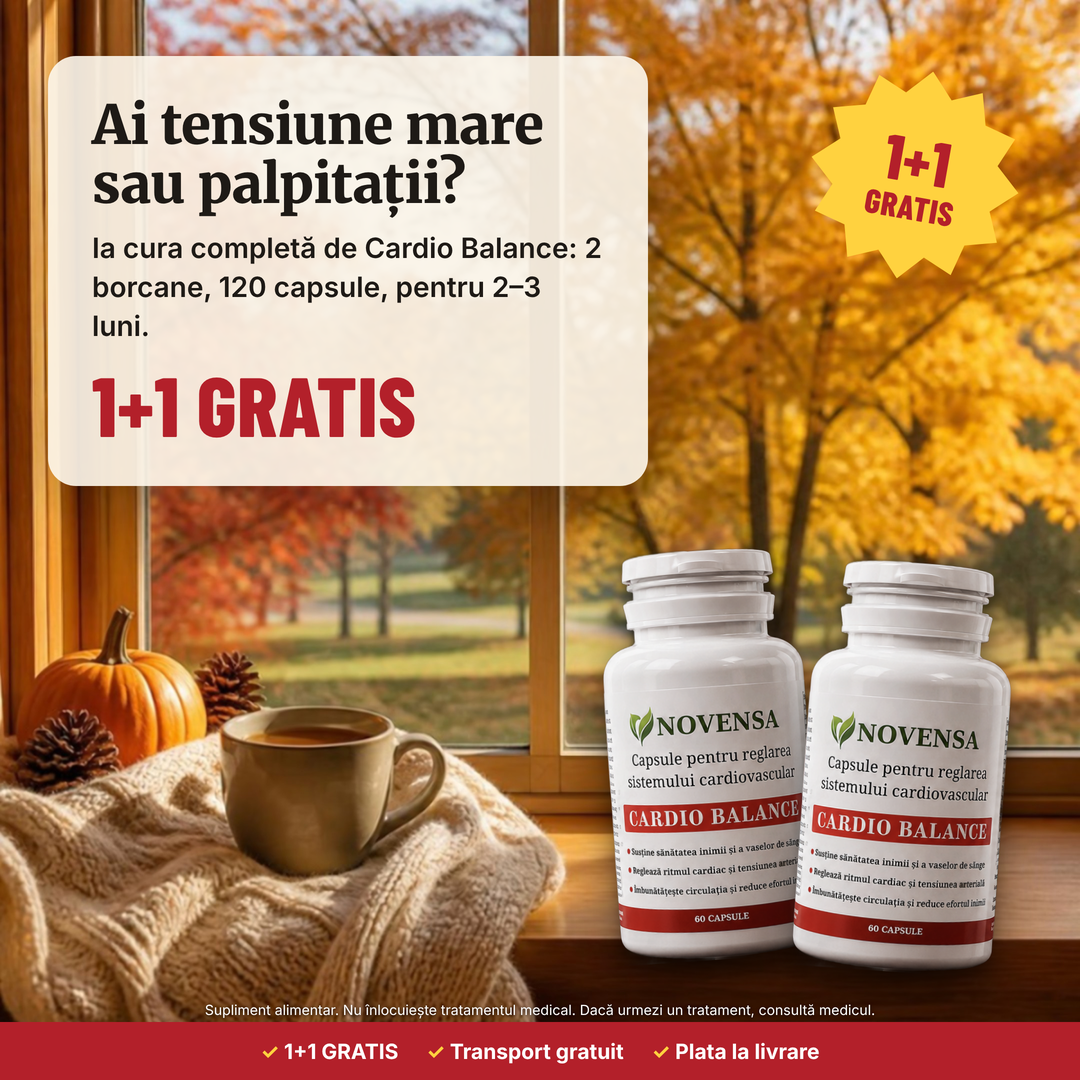
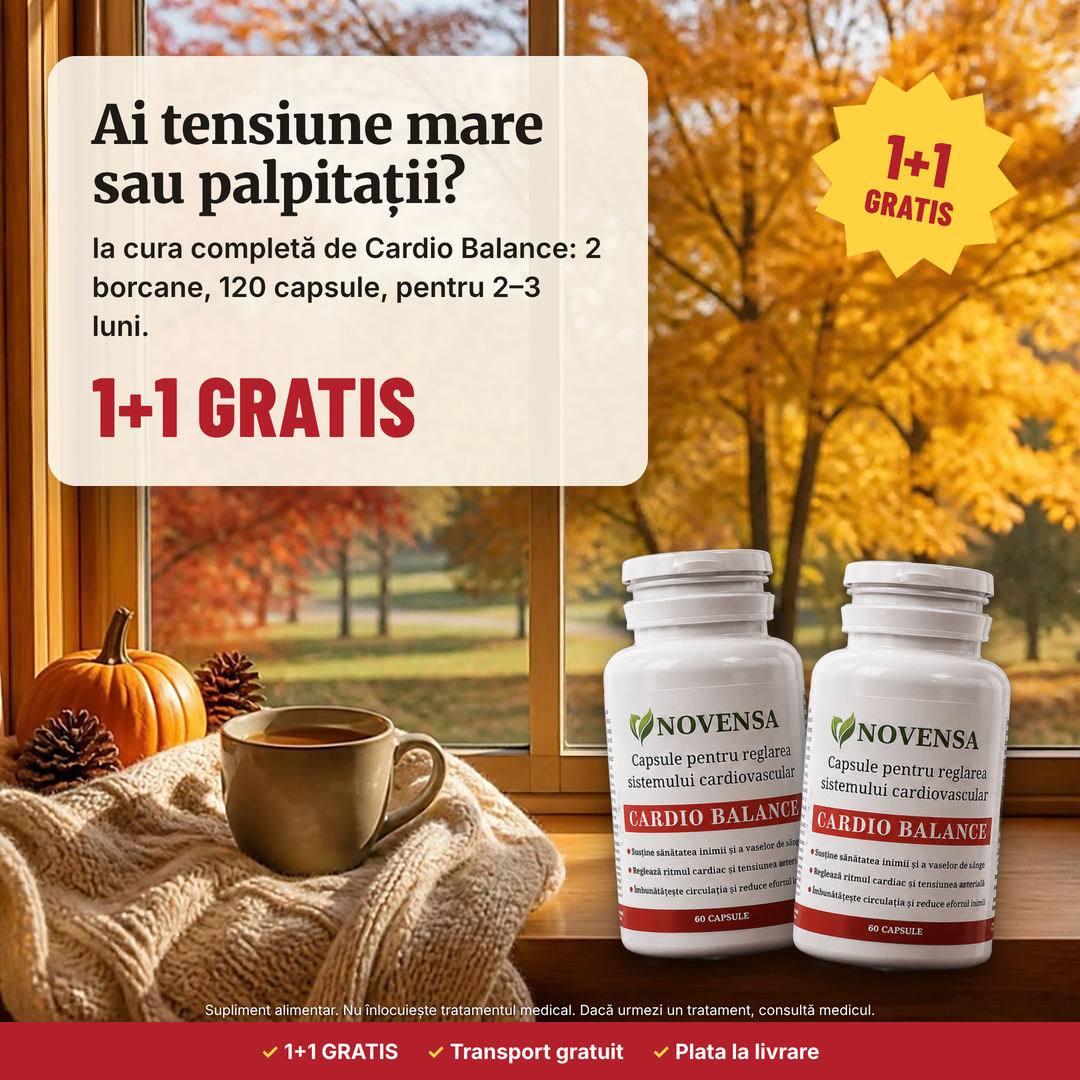
Cardio Balance offer ads: sharpened backgrounds and bottle
Claude-Session: https://claude.ai/code/session_01QRfMsfScsJWesCLQcb2b8g

diff --git a/brand/cardio/ads-oferta.js b/brand/cardio/ads-oferta.js
@@ -36,13 +36,13 @@ body{font-family:Inter,sans-serif;position:relative;color:${C.ink}}
 .disc{position:absolute;left:0;right:0;bottom:62px;text-align:center;font:400 14px Inter}
 .logo{height:38px}
 `;
-const PROD = '../cardio-cutout-hd.png', LOGO = '../../logo-novensa.png';
+const PROD = '../cardio-cutout-hd-s.png', LOGO = '../../logo-novensa.png';
 const bottle = (h, x, y, rot = 0) => {
   const w = h * 0.509;
   return `<div class="shadow" style="left:${x - w * 0.1}px;top:${y + h - 26}px;width:${w * 1.2}px;height:52px"></div><img class="prod" src="${PROD}" style="height:${h}px;left:${x}px;top:${y}px;transform:rotate(${rot}deg)">`;
 };
 const pair = (h, x, y) => `${bottle(h, x, y, -4)}${bottle(h, x + h * 0.47, y + 12, 4)}`;
-const bg = id => `<div class="bg" style="background-image:url(../bg/${id}.jpg)"></div>`;
+const bg = id => `<div class="bg" style="background-image:url(../bg/${id}-s.jpg)"></div>`;
 const burst = (x, y, s = 250, rot = -10) => `<div class="burst" style="left:${x}px;top:${y}px;width:${s}px;height:${s}px;background:${C.yellow};color:${C.red};transform:rotate(${rot}deg)"><div class="bc" style="font-size:${s * 0.3}px">1+1</div><div class="bc" style="font-size:${s * 0.16}px">GRATIS</div></div>`;
 const foot = () => `<div class="foot"><span>1+1 GRATIS</span><span>Transport gratuit</span><span>Plata la livrare</span></div>`;
 const disc = (c = '#fff') => `<div class="disc" style="color:${c};${c === '#fff' ? 'text-shadow:0 1px 3px rgba(0,0,0,.8)' : 'opacity:.7'}">Supliment alimentar. Nu înlocuiește tratamentul medical. Dacă urmezi un tratament, consultă medicul.</div>`;
